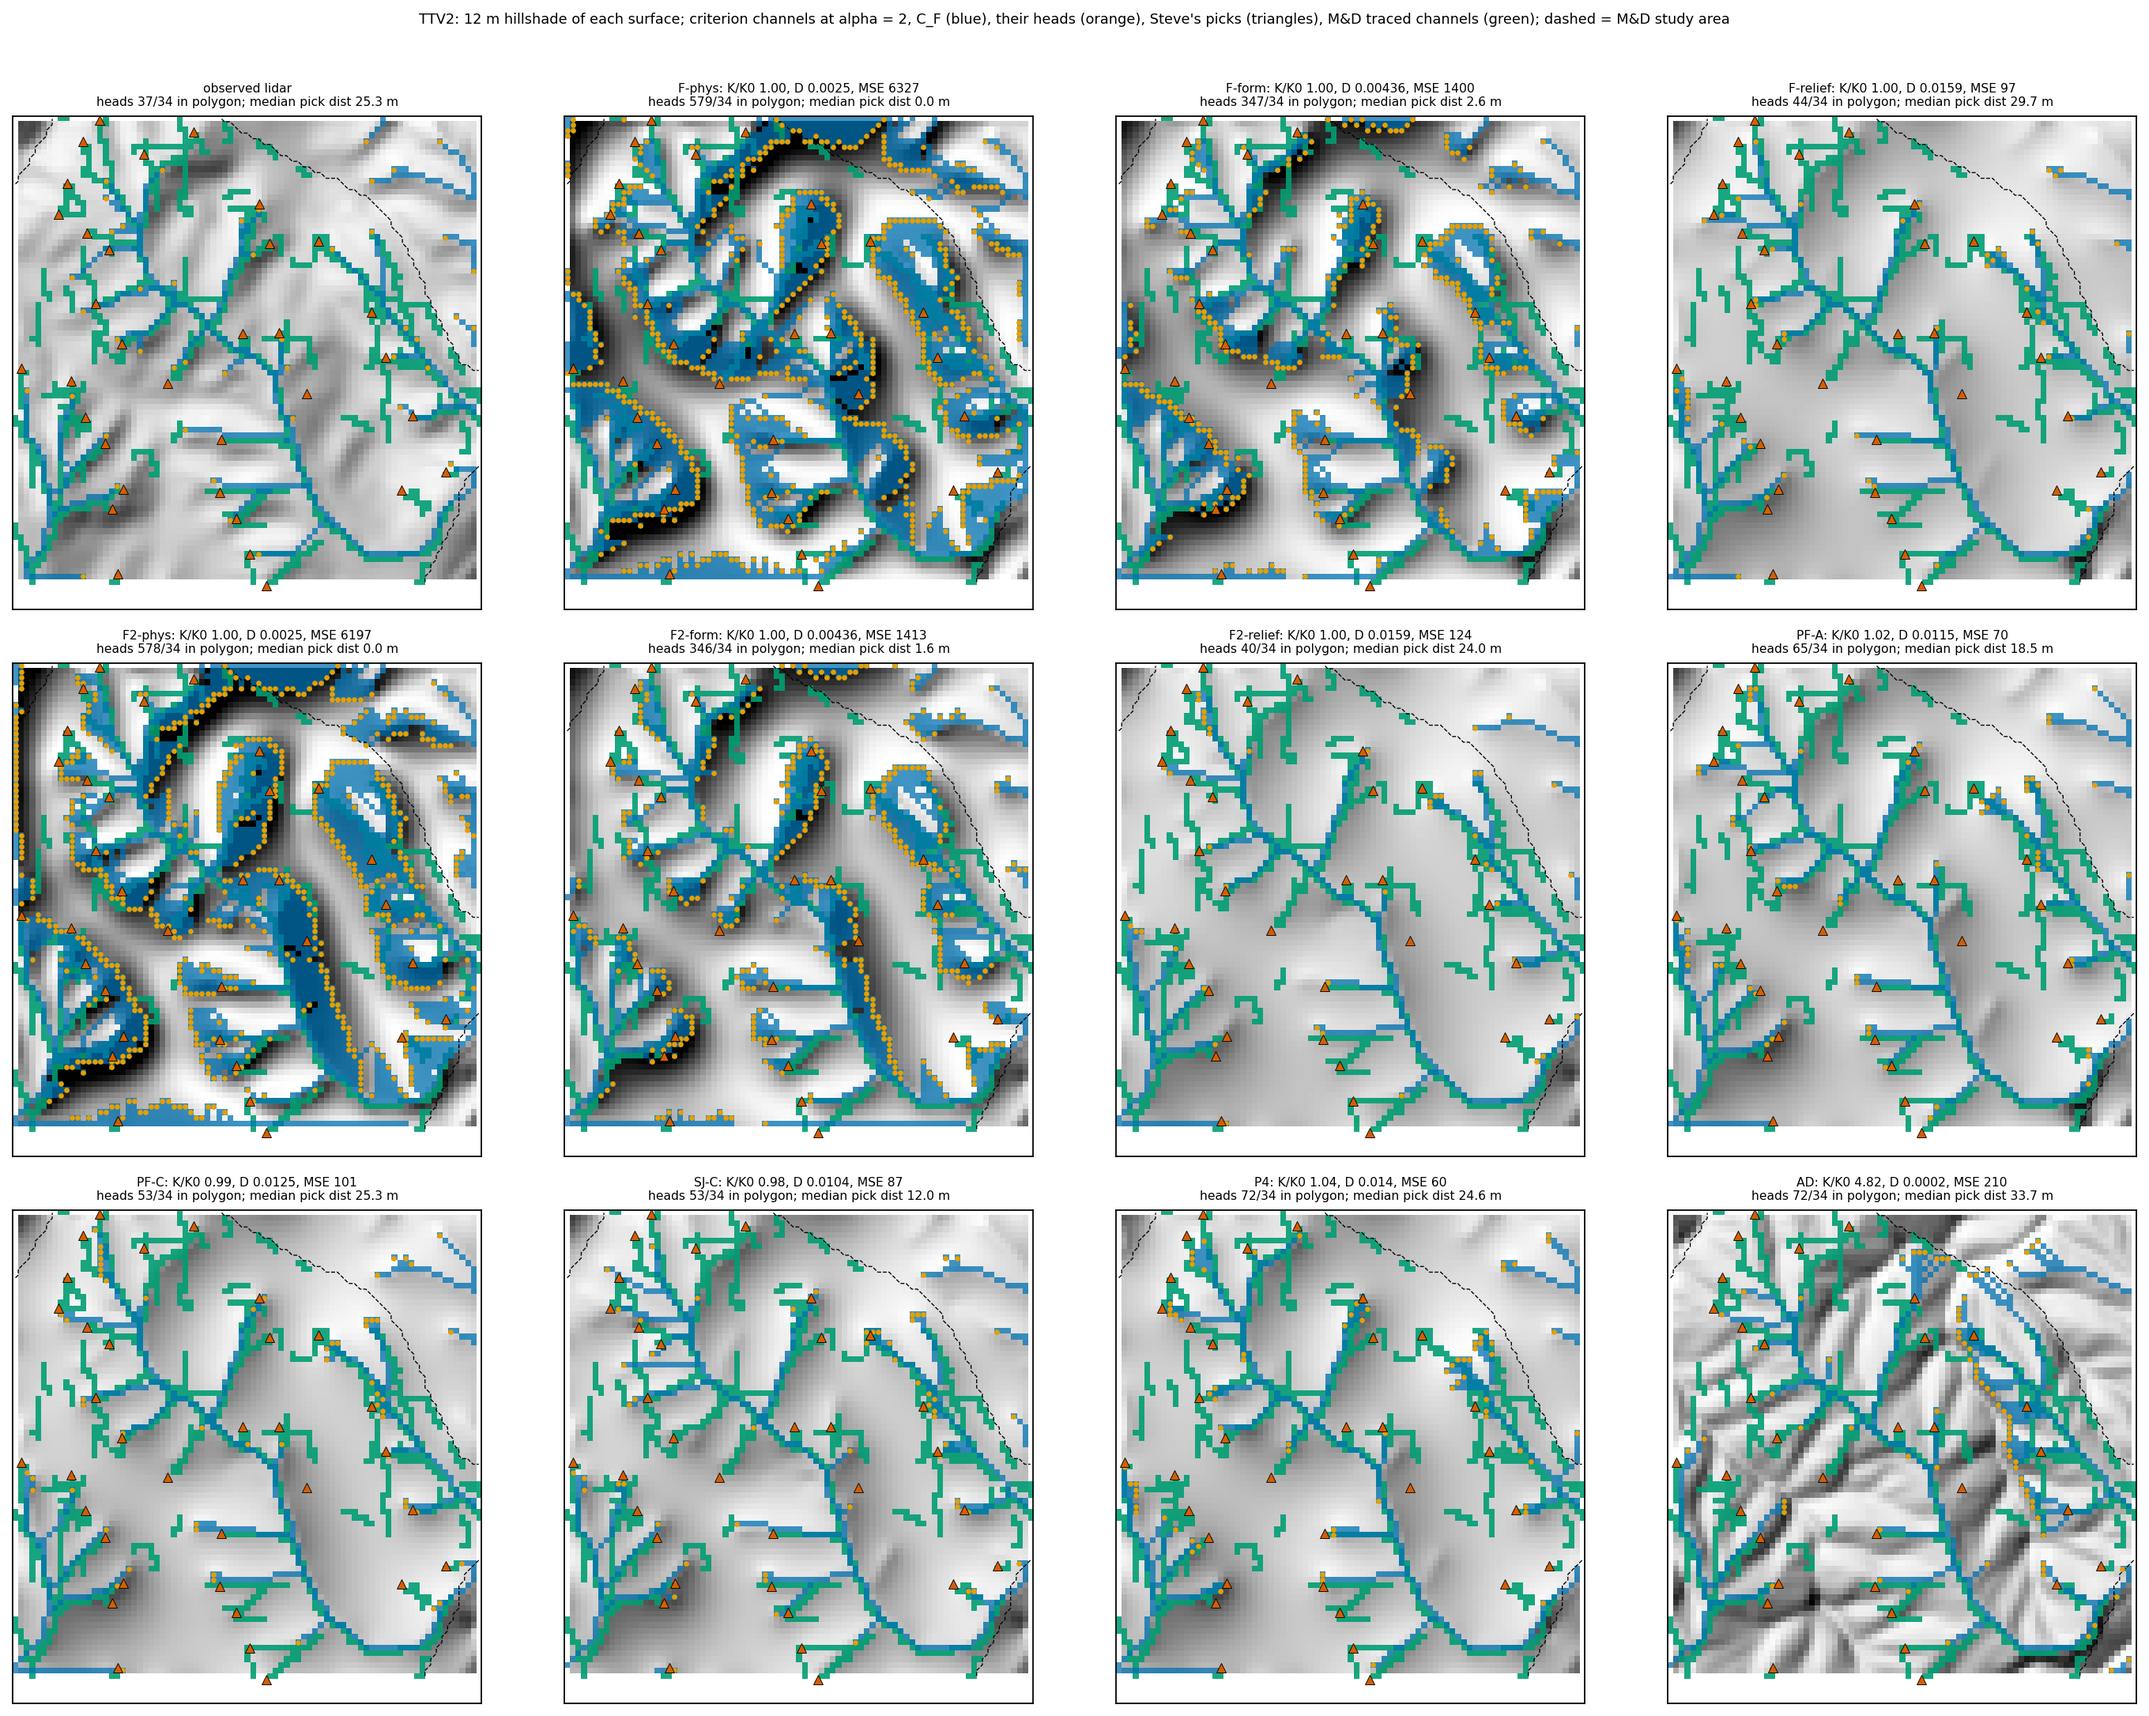
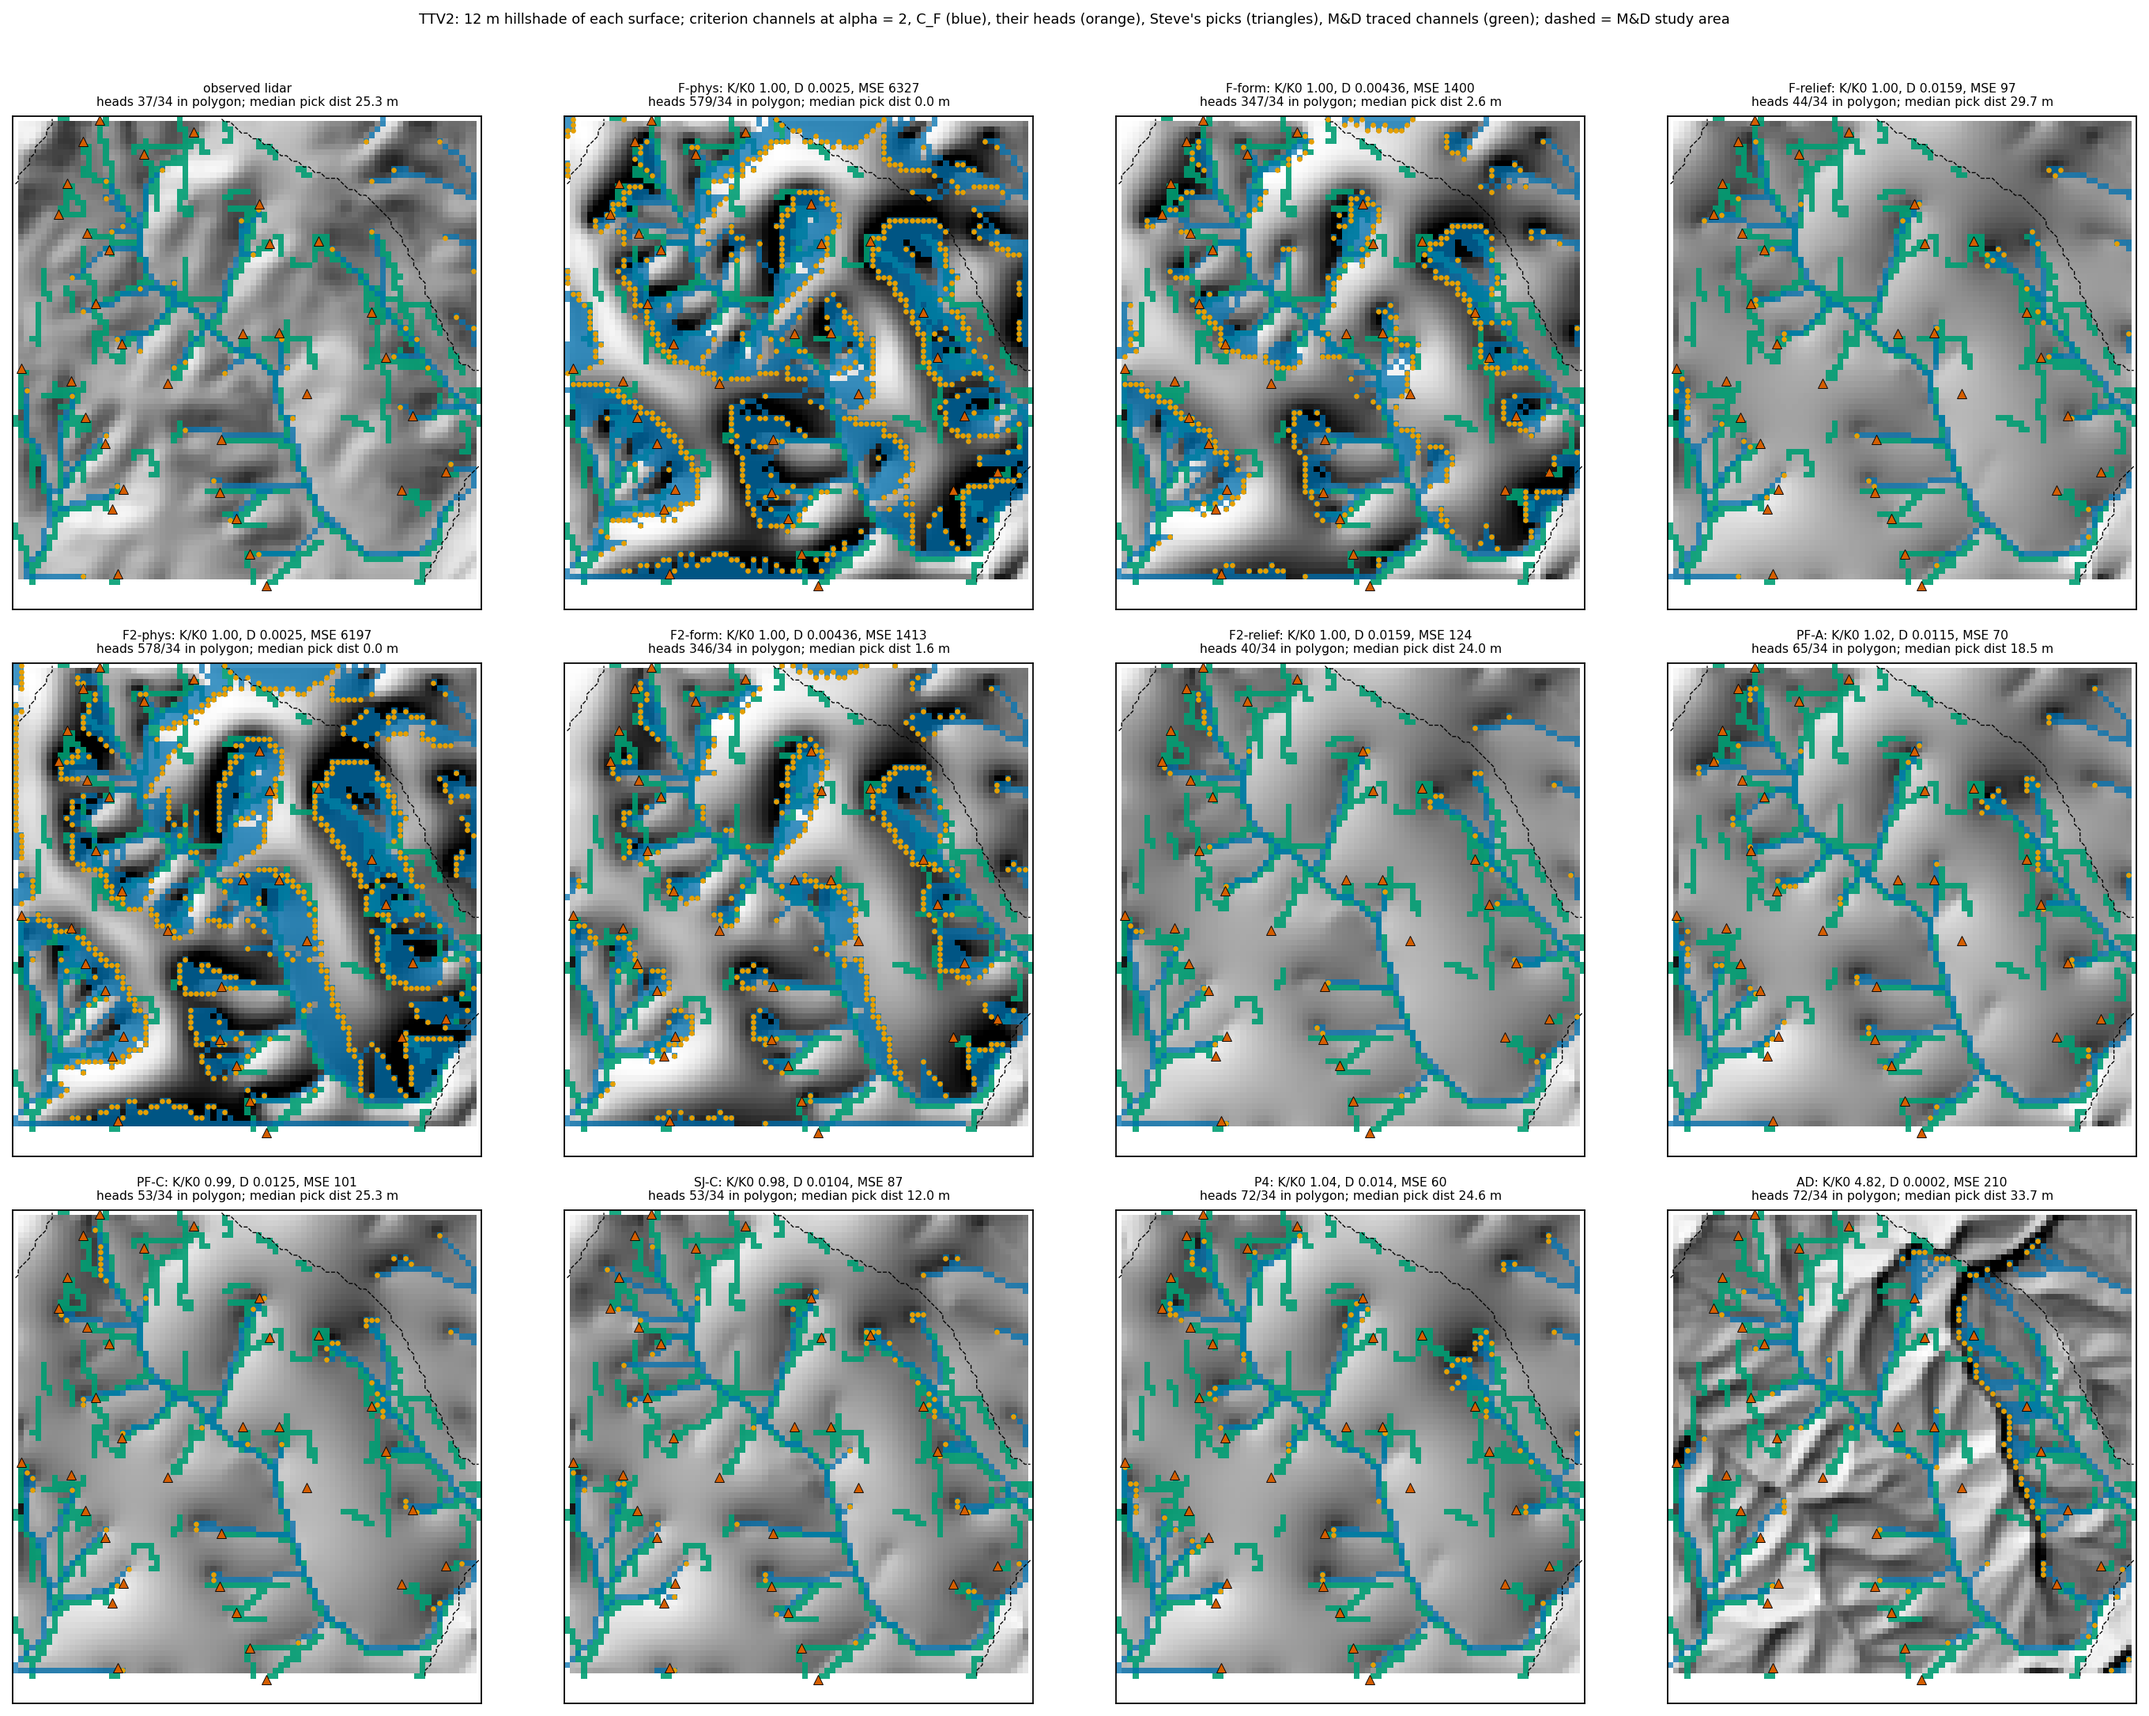
Hillshade: Esri aspect convention in the shared helper (the earlier sign lit the relief from the south-east and inverted it to the eye); addendum 21 figures regenerated with light from the north-west

diff --git a/reports/v2/scripts/a17_common.py b/reports/v2/scripts/a17_common.py
@@ -74,7 +74,9 @@ def hillshade(z, dx: float, azimuth: float = HILLSHADE["azimuth_deg"], altitude:
     dzdx *= z_factor
     dzdy *= z_factor
     slope = np.arctan(np.hypot(dzdx, dzdy))
-    aspect = np.arctan2(-dzdy, dzdx)        # rows increase southward: -dzdy is the northward gradient component
+    # Esri convention: aspect = atan2(dz/dy, -dz/dx) with dz/dy increasing southward (row index). The earlier atan2(-dzdy, dzdx)
+    # differed by pi and lit the surface from the south-east, which inverts the relief to the eye (Steve, 2026-11-23).
+    aspect = np.arctan2(dzdy, -dzdx)
     zen = np.deg2rad(90.0 - altitude)
     az = np.deg2rad(360.0 - azimuth + 90.0)
     hs = np.cos(zen) * np.cos(slope) + np.sin(zen) * np.sin(slope) * np.cos(az - aspect)
